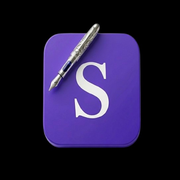
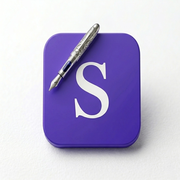
Add files via upload

diff --git a/index.html b/index.html
@@ -248,7 +248,7 @@
     <header>
         <div class="header-content">
             <a class="logo" href="index.html">
-                <div class="logo-icon" style="background:none;padding:0;"><img src="icon-192x192.png" alt="Calvary Scribblings" style="width:52px;height:52px;border-radius:12px;display:block;"></div>
+                <div class="logo-icon" style="background:none;padding:0;"><img src="logo-header.jpg" alt="Calvary Scribblings" style="width:52px;height:52px;border-radius:10px;display:block;object-fit:cover;"></div>
                 <div class="logo-text">
                     <h1>Calvary Scribblings</h1>
                     <div class="logo-subtext">A Calvary Media UK Publication</div>

diff --git a/inspiring.html b/inspiring.html
@@ -66,7 +66,7 @@
     <header>
         <div class="header-content">
             <a class="logo" href="index.html">
-                <div class="logo-icon" style="background:none;padding:0;"><img src="icon-192x192.png" alt="Calvary Scribblings" style="width:52px;height:52px;border-radius:12px;display:block;"></div>
+                <div class="logo-icon" style="background:none;padding:0;"><img src="logo-header.jpg" alt="Calvary Scribblings" style="width:52px;height:52px;border-radius:10px;display:block;object-fit:cover;"></div>
                 <div class="logo-text">
                     <h1>Calvary Scribblings</h1>
                     <div class="logo-subtext">A Calvary Media UK Publication</div>

diff --git a/news.html b/news.html
@@ -63,7 +63,7 @@
     <header>
         <div class="header-content">
             <a class="logo" href="index.html">
-                <div class="logo-icon" style="background:none;padding:0;"><img src="icon-192x192.png" alt="Calvary Scribblings" style="width:52px;height:52px;border-radius:12px;display:block;"></div>
+                <div class="logo-icon" style="background:none;padding:0;"><img src="logo-header.jpg" alt="Calvary Scribblings" style="width:52px;height:52px;border-radius:10px;display:block;object-fit:cover;"></div>
                 <div class="logo-text">
                     <h1>Calvary Scribblings</h1>
                     <div class="logo-subtext">A Calvary Media UK Publication</div>

diff --git a/short.html b/short.html
@@ -19,7 +19,7 @@
     <header>
         <div class="header-content">
             <a class="logo" href="index.html">
-                <div class="logo-icon" style="background:none;padding:0;"><img src="icon-192x192.png" alt="Calvary Scribblings" style="width:52px;height:52px;border-radius:12px;display:block;"></div>
+                <div class="logo-icon" style="background:none;padding:0;"><img src="logo-header.jpg" alt="Calvary Scribblings" style="width:52px;height:52px;border-radius:10px;display:block;object-fit:cover;"></div>
                 <div class="logo-text">
                     <h1>Calvary Scribblings</h1>
                     <div class="logo-subtext">A Calvary Media UK Publication</div>

diff --git a/offline.html b/offline.html
@@ -55,7 +55,7 @@
     <header>
         <div class="header-content">
             <a class="logo" href="/index.html">
-                <div class="logo-icon"><span>S</span></div>
+                <div class="logo-icon" style="background:none;padding:0;"><img src="logo-header.jpg" alt="Calvary Scribblings" style="width:52px;height:52px;border-radius:10px;display:block;object-fit:cover;"></div>
                 <div class="logo-text">
                     <h1>Calvary Scribblings</h1>
                     <div class="logo-subtext">A Calvary Media UK Publication</div>
